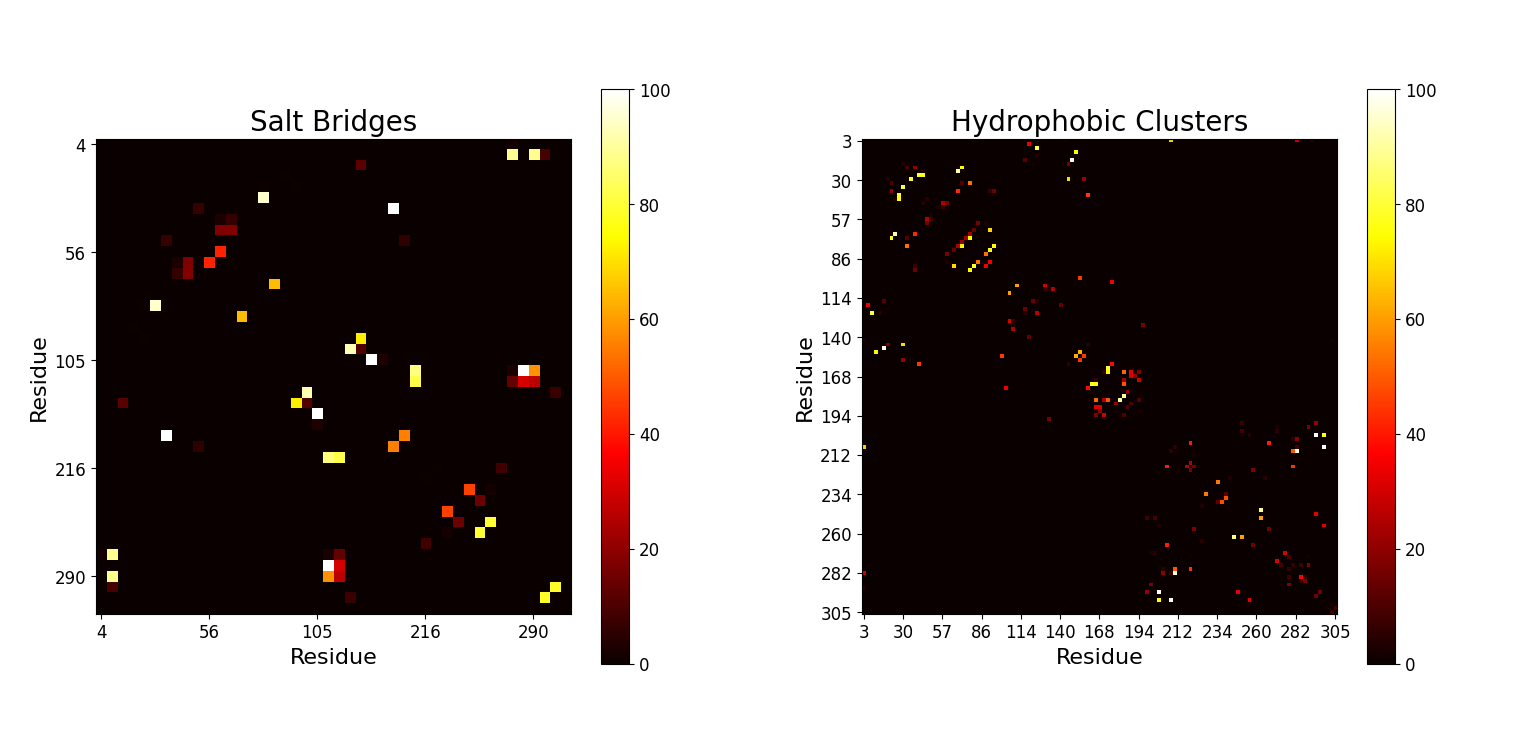
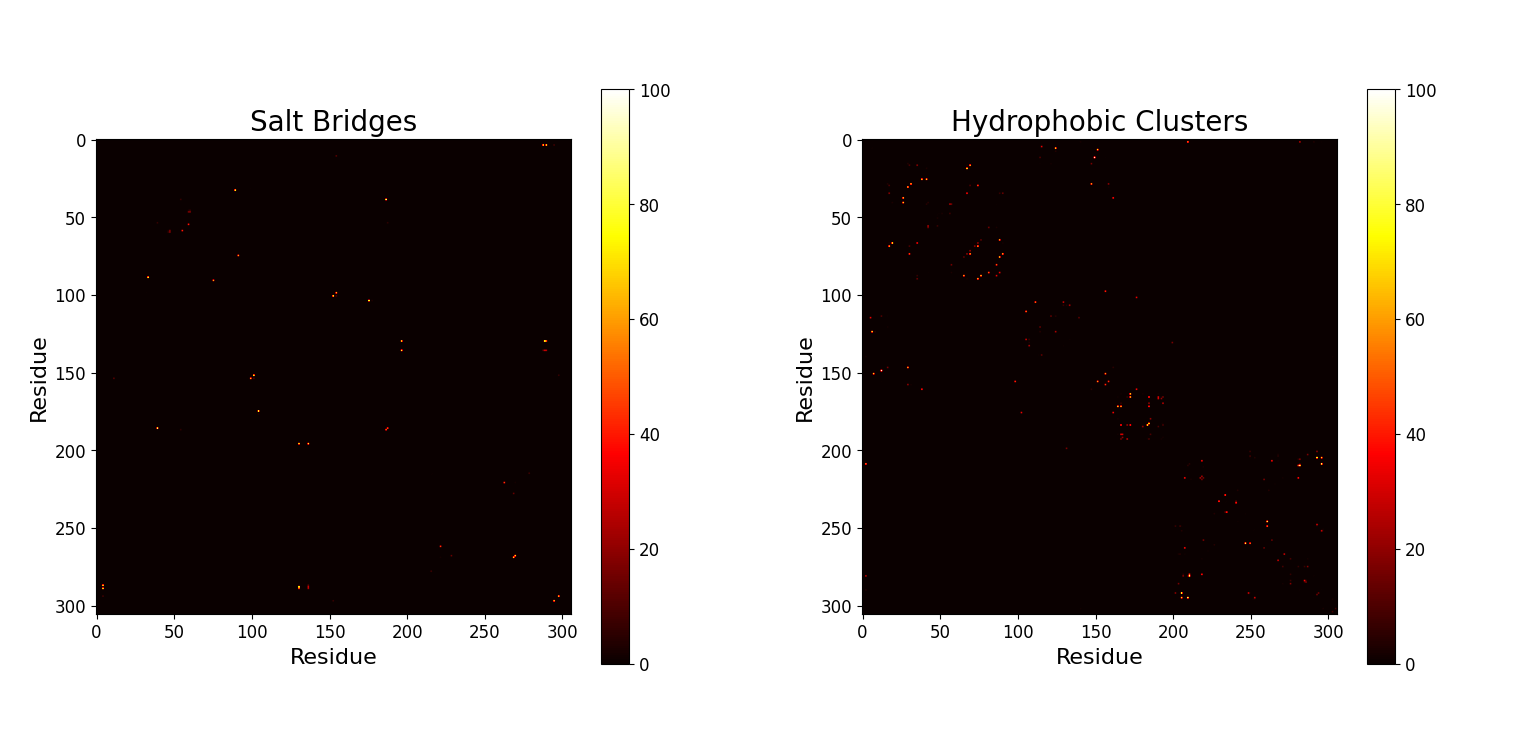
fixed pyinteraph plots

diff --git a/src_analysis/visualizations.py b/src_analysis/visualizations.py
@@ -337,22 +337,17 @@ class Plotter_Pyinteraph(Plotter):
         ##### DATA
         header = ["res0_chain", "res0_num", "res0_name", "res0_inter_group", "res1_chain", "res1_num", "res1_name", "res1_inter_group", "occurrence"]
         df = pd.read_csv(path_reduced, header = None, usecols = range(len(header)), names = header)
-
-        atoms = sorted(set(df.res0_num) | set(df.res1_num))
-        matrix = np.zeros((len(atoms), len(atoms)))
-        atom_to_index = {atom:id for id,atom in enumerate(atoms)}
+        matrix = np.zeros((N_RESIDS_SUBUNIT, N_RESIDS_SUBUNIT))
 
         for _,row in df.iterrows():
-            atom_0_id = atom_to_index[row.res0_num]
-            atom_1_id = atom_to_index[row.res1_num]
-            matrix[atom_0_id, atom_1_id] = row.occurrence
-            matrix[atom_1_id, atom_0_id] = row.occurrence
+            id0 = row.res0_num - 1
+            id1 = row.res1_num - 1
+            matrix[id0, id1] = row.occurrence
+            matrix[id1, id0] = row.occurrence
 
         ##### FIGURES CREATION
         fig, ax = plt.subplots()
         self.stylize_ax(ax, title, "Residue", "Residue")
-        ax.set_xticks(np.arange(len(atoms), step = 10), labels = atoms[::10])
-        ax.set_yticks(np.arange(len(atoms), step = 10), labels = atoms[::10])
 
         ##### PLOTTING
         self.plot_heatmap(fig, ax, matrix, "hot")

diff --git a/src_analysis/_params.py b/src_analysis/_params.py
@@ -11,6 +11,8 @@ RUNS = ["mt1_rep0", "mt1_rep1", "mt2_rep0", "mt2_rep1", "wt1_rep0", "wt1_rep1", 
 CLUSTERING_LINK_METHOD = "ward"
 COLOR_MAP_CLUSTERS = "prism"
 
+N_RESIDS_SUBUNIT = 306 # hardcoded for systems 8DFN and 7SI9
+
 ####################################### DIRECTORIES
 
 DIR_DA = DIR_PROJECT / "data_analysis"
